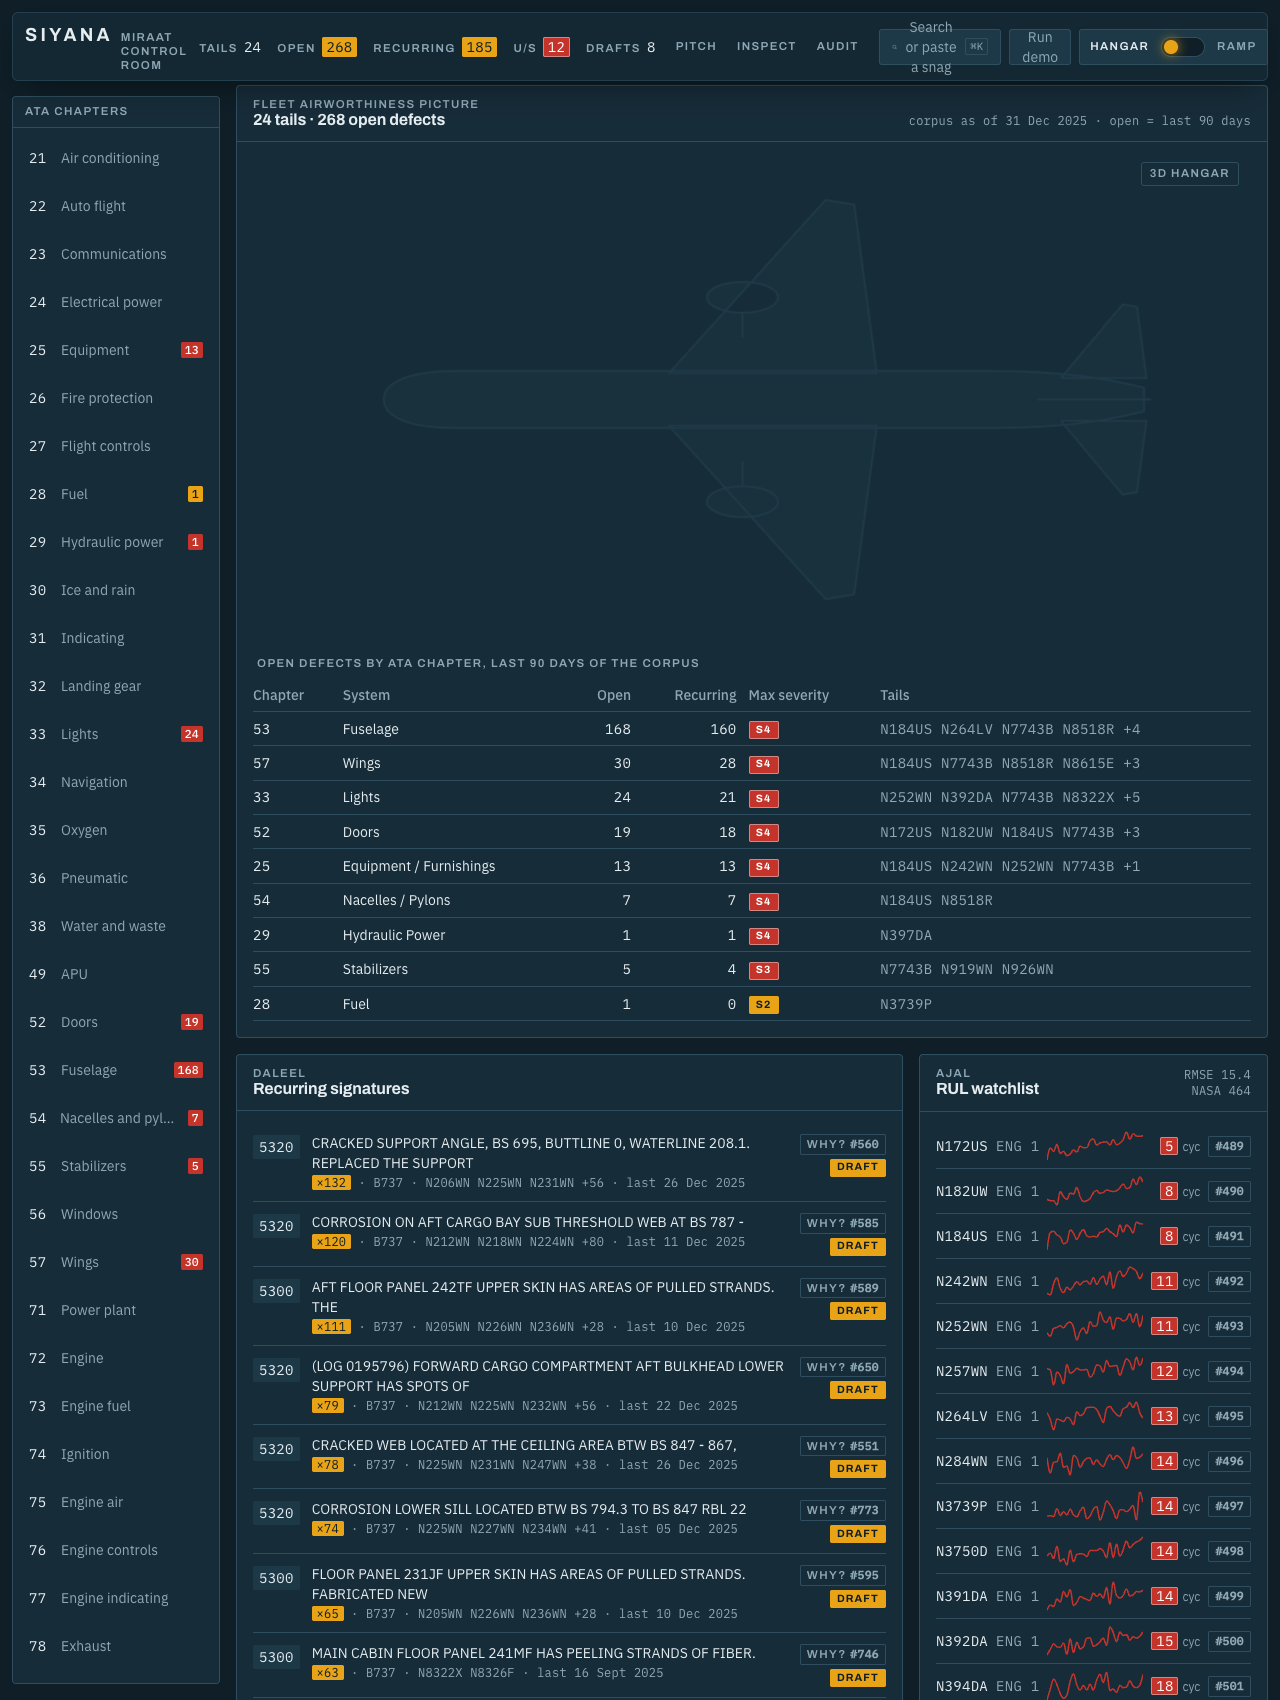
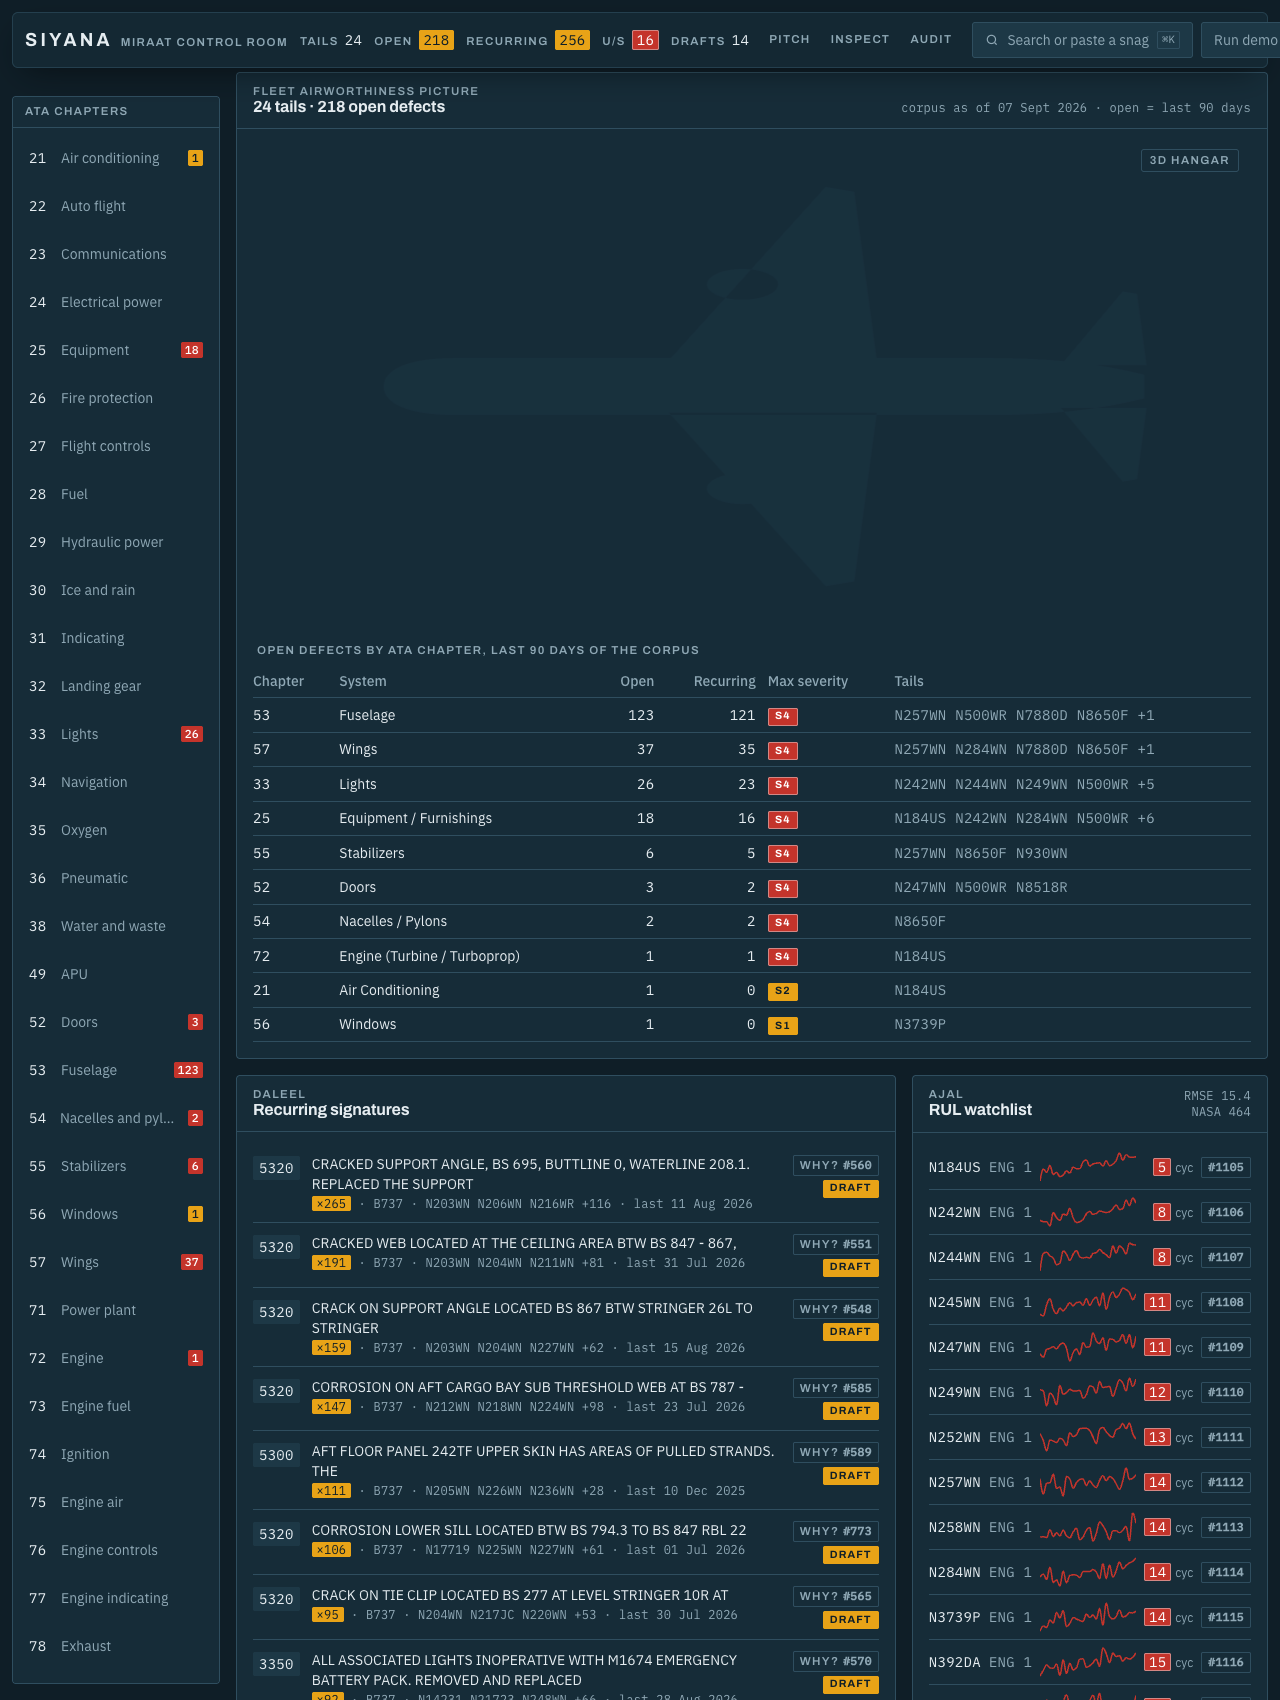
docs: live numbers after the 2026 backfill; pooled-host notes

diff --git a/docs/SCORECARD.md b/docs/SCORECARD.md
@@ -14,19 +14,19 @@ Every claim links to something you can open.
 
 | URL | What you get |
 |---|---|
-| https://siyana-six.vercel.app | Control room: 24 fleet tails, 268 open defects, 185 signatures, 8 drafts, RUL watchlist, hangar Gantt with the licence-shortage finding |
+| https://siyana-six.vercel.app | Control room: 24 fleet tails, 218 open defects in the last 90 days (corpus current to 7 Sep 2026, refreshed weekly by GitHub Actions), 255 signatures, 14 drafts awaiting sign-off, RUL watchlist, hangar Gantt with the licence-shortage finding |
 | https://siyana-six.vercel.app/pitch | Pitch page with live counts pulled from the API |
 | https://siyana-api.onrender.com/docs | OpenAPI reference; `/health/ready` reports corpus counts, judge, backend and auth mode |
 | https://github.com/krish2105/siyana | Public repository, CI badge, release `models-v1` with the trained weights |
 
-Verified on 2026-09-09: Lighthouse on the live site scores 93 / 100 / 100 / 100 (desktop) and 90 / 100 / 100 / 100 (360 px mobile, simulated 4G) with zero layout shift; CI is green; the weekly ingest workflow ran against production; `GET /fleet/summary` returns the fleet; `POST /daleel/judge` on a pasted snag returns 20 neighbours, a verdict and an evidence id; the Gantt shows *Short 18 h of B1.1 on day 2*.
+Verified on 2026-09-09: Lighthouse on the live site scores 93 / 100 / 100 / 100 (desktop) and 90 / 100 / 100 / 100 (360 px mobile, simulated 4G) with zero layout shift; CI is green; the weekly ingest workflow ran against production; `GET /fleet/summary` returns the fleet; `POST /daleel/judge` on a pasted snag returns 20 neighbours, a verdict and an evidence id; the Gantt shows *Short 31 h of B1.1 on day 2: 115 h due, 84 h rostered*; the weekly ingest workflow backfilled January to August 2026 and runs every Monday.
 
 ## Where the points went
 
 **Deployed MVP, minus 16.**
 - The API runs on Render's free 512 MB plan. Vision inference (`SIYANA_ENABLE_NAZAR=0`) and the 400 MB ATA classifier (`SIYANA_ATA_CLASSIFIER=0`) are switched off there; both run locally and in Docker Compose. A paid plan needs a card on the Render account, which only you can add. (-8)
 - Cold start after 15 minutes idle is about 30 s; the uptime workflow pings every 10 minutes to hide it, and the first judge call downloads the ONNX model (-2).
-- The database is a dedicated `siyana` schema inside your existing free Supabase project, sized to the narrow-body corpus (107k of 150k snags, no ANN index). Free Supabase projects pause after a week without traffic; the uptime workflow's readiness call keeps it active. (-4)
+- The database is a dedicated `siyana` schema inside your existing free Supabase project, holding the narrow-body corpus (132k snags including the 2026 backfill, 337 MB, no ANN index; retrieval is a sequential scan of about a second). Free Supabase projects pause after a week without traffic; the uptime workflow's readiness call keeps it active. (-4)
 - The detector is trained on stand-in imagery (mAP 0.43). (-2)
 
 **SaaS ready, minus 36.**

diff --git a/README.md b/README.md
@@ -156,8 +156,10 @@ The live deployment, and how to reproduce it:
 |---|---|---|
 | Web | Vercel, project `siyana`, root `web/`, region bom1 | Auto-deploys from `main`. The production API URL is the code default in `web/lib/api.ts`; override with `NEXT_PUBLIC_API_URL`. |
 | API | Render web service `siyana-api`, Python runtime, Singapore, free plan | `render.yaml` holds the exact build and start commands and env vars. Free plan: 512 MB RAM, sleeps after 15 min idle (first request ~30 s). Env `SIYANA_EMBED_BACKEND=fastembed` (ONNX MiniLM), `SIYANA_ENABLE_NAZAR=0`, `SIYANA_ATA_CLASSIFIER=0`. Move to a 2 GB plan and flip those two flags to serve vision and ATA classification. |
-| Database | Supabase (free) project, dedicated `siyana` schema and role, Mumbai | 107k-snag narrow-body corpus (B737, A320/A319/A321, E170/E190, CRJ) plus ASRS, 323 MB, sequential-scan retrieval (`SIYANA_SKIP_VECTOR_INDEX=1`). Session pooler on port 5432 for IPv4 hosts. |
+| Database | Supabase (free) project, dedicated `siyana` schema and role, Mumbai | 132k-snag narrow-body corpus (B737, A320/A319/A321, E170/E190, CRJ, 2024 to date) plus ASRS, 337 MB, sequential-scan retrieval (`SIYANA_SKIP_VECTOR_INDEX=1`). Transaction pooler on port 6543 for IPv4 hosts; keep the API pool small (`SIYANA_DB_POOL_SIZE`). |
 | Model weights | GitHub release `models-v1` | Fetched on first use by `services/common/artefacts.py`; override the base URL with `SIYANA_ARTEFACT_BASE`. |
+
+The corpus stays current without anyone touching it: `.github/workflows/ingest-weekly.yml` pulls the previous week of SDRS every Monday, embeds it, re-runs the recurrence scan, watchlist and schedule (dispatch it by hand with a `from`/`to` range to backfill); `.github/workflows/keepalive.yml` probes readiness every 10 minutes.
 
 Set `ANTHROPIC_API_KEY` on the API host to switch the judge from the embedding fallback to
 claude-sonnet-4-6; `/health/ready` reports which judge, backend and auth mode are active. Set
